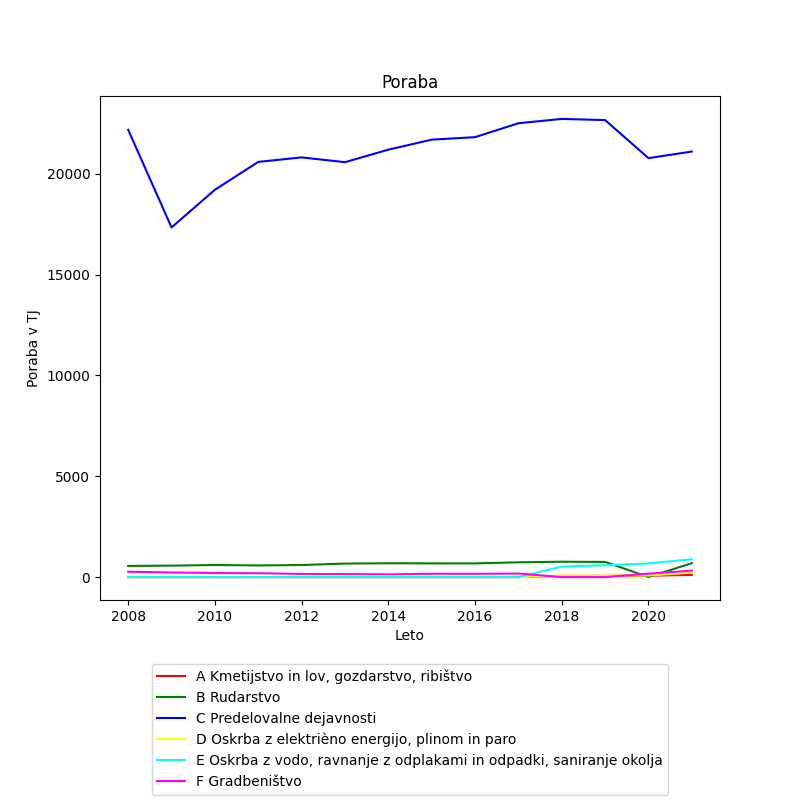
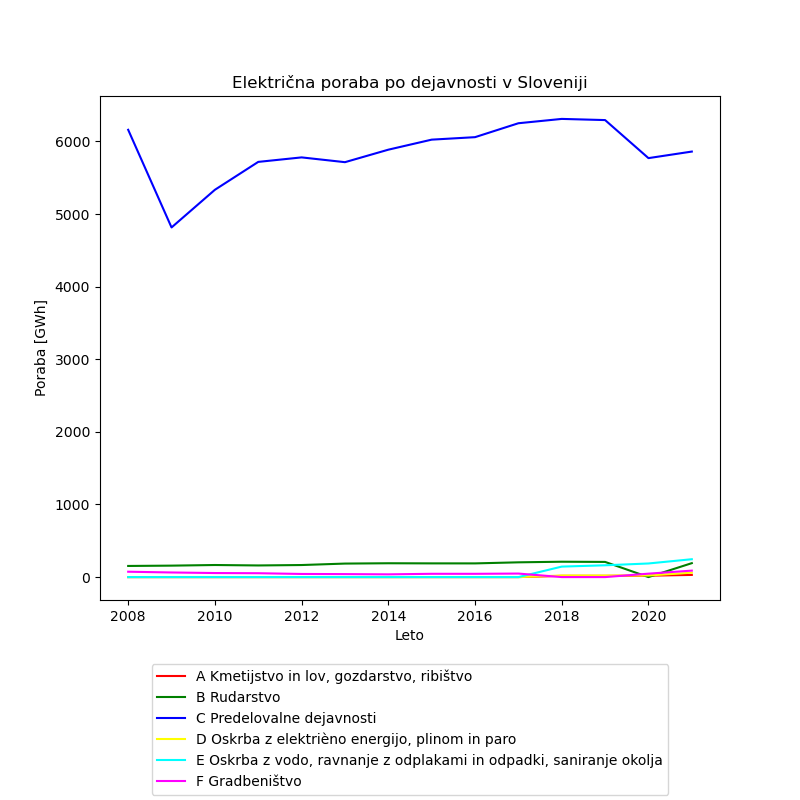
popravljen graf (relativne spremembe, dodatno predprocesiranje)

diff --git a/py/elektricna_poraba_po_dejavnosti.py b/py/elektricna_poraba_po_dejavnosti.py
@@ -1,39 +1,61 @@
-import Orange
-import matplotlib
 import matplotlib.pyplot as plt
-import matplotlib.image as img
 import numpy as np
 import csv
 
+
+def getdigit(n):
+    if n.isdigit():
+        return n
+    # nekateri vnosi imajo na koncu to črko, ostali pa ne
+    elif n[-1] == 'M':
+        return int(n[:-1])
+    return 0
+
+
+# ---------- UVOZ PODATKOV ----------
 with open('../podatki/csv/poraba_podejavnosti_breztransformacij.csv', encoding="cp1252") as f:
     reader = csv.reader(f)
-    data = [row for row in reader]
+    podatki = [row for row in reader]
 
-new_data = []
-for row in data:
+novi_podatki = []
+for row in podatki:
     if str(row[0])[1] == " ":
-        new_data.append(row)
+        novi_podatki.append(row)
 
-data = new_data
-values = []
+
+# ---------- PREDPROCESIRANJE PODATKOV ----------
+# tukaj se zgodi pretvorba različnih enot v eno samo [GWh], ki je skladna drugje
+# nekatere vrednost imajo na koncu črko 'M', kar onemogoči direktno pretvorbo v število
+# nekatere celotne dejavnosti pa vsebujejo preveč manjkajočih vrednosti, da bi bile uporabne
+podatki = novi_podatki
+porabe_po_dejavnosti = []
 names = []
-for row in data:
-    print(row)
+for row in podatki:
+    if row[0][0] in ['A', 'D', 'E']:
+        continue
     names.append(row[0])
     # deli se z 3.6, ker je to faktor pretvorbe iz TJ v GWh
-    value = [int(n) / 3.6 if n.isdigit() else 0 for n in row[1:]]
-    values.append(value)
+    value = [int(getdigit(n)) / 3.6 for n in row[1:]]
+    porabe_po_dejavnosti.append(value)
 
+
+# ---------- TRANSFORMACIJA PODATKOV ----------
+relativne_porabe_po_dejavnosti = []
+for tabela_porab in porabe_po_dejavnosti:
+    povp_poraba = np.mean(tabela_porab)
+    relativne_porabe_po_dejavnosti.append([poraba / povp_poraba for poraba in tabela_porab])
+
+
+# ---------- IZPIS PODATKOV ----------
 # od 2008 do 2021
 years = [year for year in range(2008, 2022, 1)]
-colors = ['red', 'green', 'blue', 'yellow', 'cyan', 'magenta']
+colors = ['blue', 'red', 'green']
 
-fig, ax = plt.subplots(figsize=(8, 8))
-for i, value in enumerate(values):
-    ax.plot(years, value, color=colors[i], label='{}'.format(names[i]))
+plt.axhline(y=1, color='grey', linestyle='--')
+for i, value in enumerate(relativne_porabe_po_dejavnosti):
+    plt.plot(years, value, color=colors[i], label='{}'.format(names[i]))
 plt.xlabel('Leto')
-plt.ylabel('Poraba [GWh]')
+plt.ylabel('Relativna sprememba od povprečne porabe')
 plt.title('Električna poraba po dejavnosti v Sloveniji')
-ax.legend(loc='lower center', bbox_to_anchor=(0, -0.4, 1, 0.1))
-plt.subplots_adjust(bottom=0.25)
+plt.legend(loc='upper left')
 plt.show()
